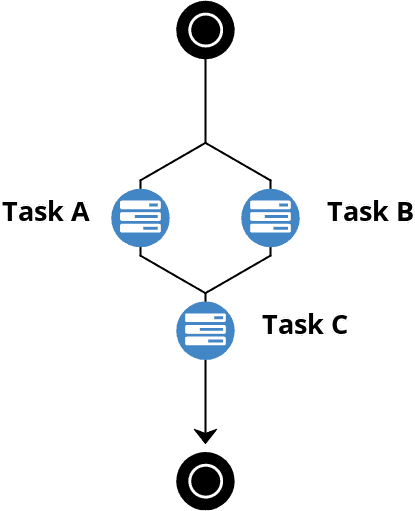
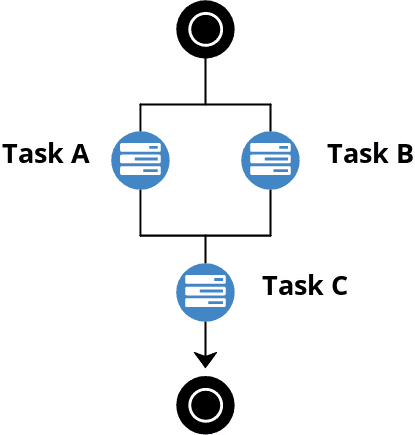
Update Img and examples

diff --git a/Workflows/WaitEventWorkflow.php b/Workflows/WaitEventWorkflow.php
@@ -10,26 +10,16 @@ class WaitEventWorkflow implements WorkflowInterface
 
     public function handle()
     {
-        (new TaskA())->dispatch();
-
         // Wait until the event or 4 seconds
         $event = (new Wait(MyEvent::class))->seconds(4)->execute();
 
         // If event has been triggered
         if ($event) {
             // Execute TaskB
-            return (new TaskB())->execute();
-        }
-
-        // Dispatch Task C
-        (new TaskC())->dispatch();
-
-        // Wait until the event or 6 seconds
-        $event = (new Wait(MyEvent::class))->seconds(6)->execute();
-        // If event has been triggered
-        if ($event) {
-            // Execute TaskD
-            return (new TaskD())->execute();
+            (new TaskA())->execute();
+        } else {
+            // Execute Task B
+            (new TaskB())->execute();
         }
     }
 

diff --git a/Workflows/EventWorkflow.php b/Workflows/EventWorkflow.php
@@ -10,9 +10,9 @@ class EventWorkflow implements WorkflowInterface
 
     public function handle()
     {
-        (new TaskB())->execute();
+        (new TaskA())->execute();
 
-        (new TaskC())->execute();
+        (new TaskB())->execute();
     }
 
     public function onEvent(EventInterface $event)
@@ -20,7 +20,7 @@ class EventWorkflow implements WorkflowInterface
         // When an event is received - dispatch TaskB
         echo 'Event received: '. get_class($event).PHP_EOL;
         if ($event instanceof MyEvent) {
-            (new TaskA())->dispatch();
+            (new TaskC())->dispatch();
         }
     }
 

diff --git a/Workflows/WaitWorkflow.php b/Workflows/WaitWorkflow.php
@@ -15,9 +15,5 @@ class WaitWorkflow implements WorkflowInterface
         (new Wait())->seconds(5)->execute();
 
         (new TaskB())->execute();
-
-        (new Wait())->seconds(5)->execute();
-
-        (new TaskC())->execute();
     }
 }

diff --git a/Workflows/AsynchronousWorkflow.php b/Workflows/AsynchronousWorkflow.php
@@ -11,8 +11,7 @@ class AsynchronousWorkflow implements WorkflowInterface
     {
         (new TaskA())->dispatch();
 
-        (new TaskB())->dispatch();
+        (new TaskB())->execute();
 
-        (new TaskC())->execute();
     }
 }

diff --git a/Tasks/TaskA.php b/Tasks/TaskA.php
@@ -10,7 +10,7 @@ class TaskA implements TaskInterface
     public function handle()
     {
         echo "Task A".PHP_EOL;
-        sleep(1);
+        sleep(3);
         return "Task A";
     }
 }

diff --git a/Tasks/TaskB.php b/Tasks/TaskB.php
@@ -10,7 +10,7 @@ class TaskB implements TaskInterface
     public function handle()
     {
         echo "Task B".PHP_EOL;
-        sleep(3);
+        sleep(5);
         return "Task B";
     }
 }

diff --git a/Tasks/TaskC.php b/Tasks/TaskC.php
@@ -10,7 +10,7 @@ class TaskC implements TaskInterface
     public function handle()
     {
         echo "Task C".PHP_EOL;
-        sleep(5);
+        sleep(7);
         return "Task C";
     }
 }

diff --git a/Tasks/TaskD.php b/Tasks/TaskD.php
@@ -10,7 +10,7 @@ class TaskD implements TaskInterface
     public function handle()
     {
         echo 'Task D'.PHP_EOL;
-        sleep(7);
+        sleep(9);
         return 'Task D';
     }
 }

diff --git a/Workflows/SequentialWorkflow.php b/Workflows/SequentialWorkflow.php
@@ -12,7 +12,5 @@ class SequentialWorkflow implements WorkflowInterface
         (new TaskA())->execute();
 
         (new TaskB())->execute();
-
-        (new TaskC())->execute();
     }
 }

diff --git a/launch_wait_event.php b/launch_wait_event.php
@@ -6,6 +6,6 @@ $workflow = new WaitEventWorkflow();
 
 $workflow->dispatch();
 
-sleep(6);
+sleep(2);
 
 WaitEventWorkflow::whereId('MyWaitEventWorkflowExample')->send(new MyEvent());

diff --git a/README.md b/README.md
@@ -27,7 +27,7 @@ Your all set!
 
 ## Example 1 : Sequential tasks execution
 [This example](https://github.com/zenaton/examples-php/tree/master/Sequential) showcases
-- A sequential execution of three tasks. The second task is executed only when the first one is processed and the third one after the second task execution.
+- A sequential execution of two tasks. The second task is executed only when the first one is processed.
 - In a sequential task execution, you can get the output of a task.
 
 <p align="center">
@@ -53,8 +53,8 @@ php launch_parallel.php
 
 ## Example 3: Asynchronous tasks execution
 [this example](https://github.com/zenaton/examples-php/tree/master/Asynchronous) showcases
-- An asynchronous execution of two tasks A and B (fire and forget)
-- Then a sequential execution of Task C
+- An asynchronous execution of a task A (fire and forget)
+- Then a sequential execution of Task B
 
 <p align="center">
     <img src="support/asynchronous_workflow.png" alt="Asynchronous Workflow Diagram" />
